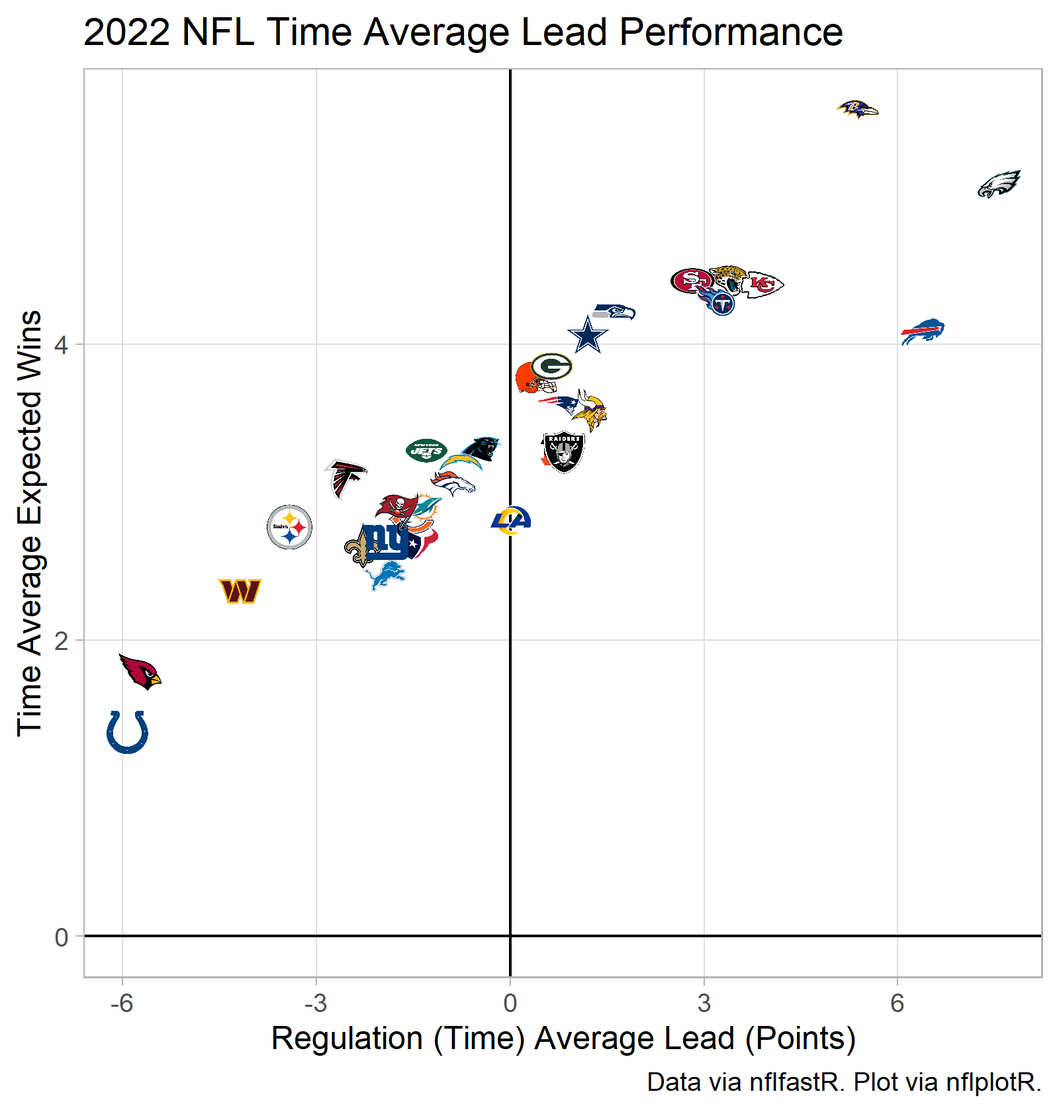
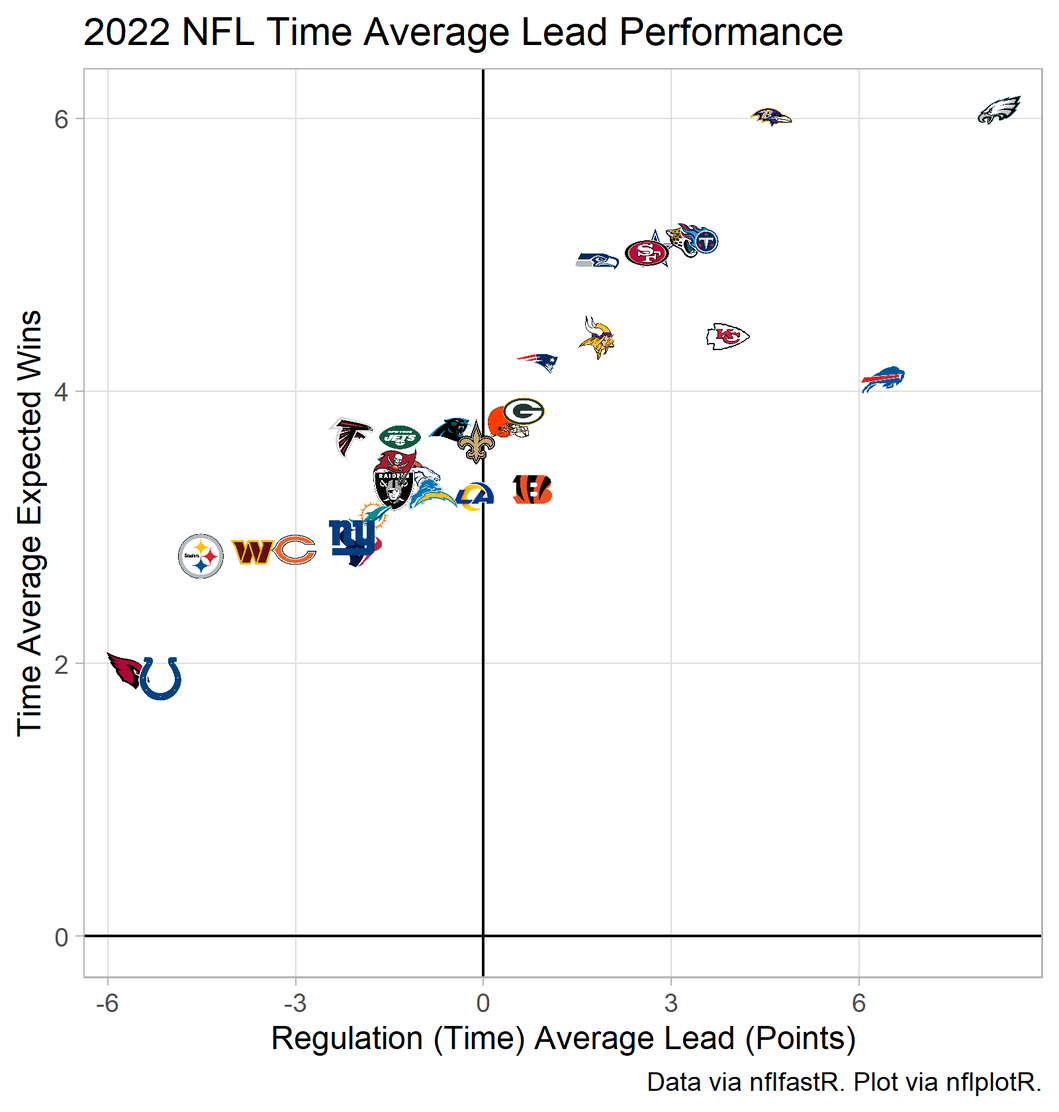
Week 8

diff --git a/docs/2022-nfl-team-metrics.html b/docs/2022-nfl-team-metrics.html
@@ -94,8 +94,8 @@ code span.wa { color: #5e5e5e; font-style: italic; } /* Warning */
 
 
   <!--  https://schema.org/Article -->
-  <meta property="article:published" itemprop="datePublished" content="2022-10-25"/>
-  <meta property="article:created" itemprop="dateCreated" content="2022-10-25"/>
+  <meta property="article:published" itemprop="datePublished" content="2022-10-30"/>
+  <meta property="article:created" itemprop="dateCreated" content="2022-10-30"/>
   <meta name="article:author" content="Casey Caprini"/>
 
   <!--  https://developers.facebook.com/docs/sharing/webmasters#markup -->
@@ -114,7 +114,7 @@ code span.wa { color: #5e5e5e; font-style: italic; } /* Warning */
   <!--radix_placeholder_rmarkdown_metadata-->
 
   <script type="text/json" id="radix-rmarkdown-metadata">
-  {"type":"list","attributes":{"names":{"type":"character","attributes":{},"value":["title","description","author","date","output"]}},"value":[{"type":"character","attributes":{},"value":["2022 NFL Team Metrics"]},{"type":"character","attributes":{},"value":["Team time average metrics for the 2021 regular season.\n"]},{"type":"list","attributes":{},"value":[{"type":"list","attributes":{"names":{"type":"character","attributes":{},"value":["name"]}},"value":[{"type":"character","attributes":{},"value":["Casey Caprini"]}]}]},{"type":"character","attributes":{},"value":["10-25-2022"]},{"type":"list","attributes":{"names":{"type":"character","attributes":{},"value":["distill::distill_article"]}},"value":[{"type":"list","attributes":{"names":{"type":"character","attributes":{},"value":["self_contained","code_folding"]}},"value":[{"type":"logical","attributes":{},"value":[false]},{"type":"logical","attributes":{},"value":[true]}]}]}]}
+  {"type":"list","attributes":{"names":{"type":"character","attributes":{},"value":["title","description","author","date","output"]}},"value":[{"type":"character","attributes":{},"value":["2022 NFL Team Metrics"]},{"type":"character","attributes":{},"value":["Team time average metrics for the 2021 regular season.\n"]},{"type":"list","attributes":{},"value":[{"type":"list","attributes":{"names":{"type":"character","attributes":{},"value":["name"]}},"value":[{"type":"character","attributes":{},"value":["Casey Caprini"]}]}]},{"type":"character","attributes":{},"value":["10-30-2022"]},{"type":"list","attributes":{"names":{"type":"character","attributes":{},"value":["distill::distill_article"]}},"value":[{"type":"list","attributes":{"names":{"type":"character","attributes":{},"value":["self_contained","code_folding"]}},"value":[{"type":"logical","attributes":{},"value":[false]},{"type":"logical","attributes":{},"value":[true]}]}]}]}
   </script>
   <!--/radix_placeholder_rmarkdown_metadata-->
   <!--radix_placeholder_navigation_in_header-->
@@ -2408,7 +2408,7 @@ code span.wa { color: #5e5e5e; font-style: italic; } /* Warning */
 <!--radix_placeholder_front_matter-->
 
 <script id="distill-front-matter" type="text/json">
-{"title":"2022 NFL Team Metrics","description":"Team time average metrics for the 2021 regular season.","authors":[{"author":"Casey Caprini","authorURL":"#","affiliation":"&nbsp;","affiliationURL":"#","orcidID":""}],"publishedDate":"2022-10-25T00:00:00.000-04:00","citationText":"Caprini, 2022"}
+{"title":"2022 NFL Team Metrics","description":"Team time average metrics for the 2021 regular season.","authors":[{"author":"Casey Caprini","authorURL":"#","affiliation":"&nbsp;","affiliationURL":"#","orcidID":""}],"publishedDate":"2022-10-30T00:00:00.000-04:00","citationText":"Caprini, 2022"}
 </script>
 
 <!--/radix_placeholder_front_matter-->
@@ -2441,11 +2441,25 @@ code span.wa { color: #5e5e5e; font-style: italic; } /* Warning */
 <div class="d-byline">
   Casey Caprini  
   
-<br/>10-25-2022
+<br/>10-30-2022
 </div>
 
 <div class="d-article">
 <h3 id="packages-used">Packages Used</h3>
+<div class="layout-chunk" data-layout="l-body">
+<details>
+<summary>
+Show code
+</summary>
+<div class="sourceCode">
+<pre class="sourceCode r"><code class="sourceCode r"><span><span class='kw'><a href='https://rdrr.io/r/base/library.html'>library</a></span><span class='op'>(</span><span class='va'><a href='https://tidyverse.tidyverse.org'>tidyverse</a></span><span class='op'>)</span></span>
+<span><span class='kw'><a href='https://rdrr.io/r/base/library.html'>library</a></span><span class='op'>(</span><span class='va'><a href='https://www.nflfastr.com/'>nflfastR</a></span><span class='op'>)</span></span>
+<span><span class='kw'><a href='https://rdrr.io/r/base/library.html'>library</a></span><span class='op'>(</span><span class='va'><a href='https://glin.github.io/reactable/'>reactable</a></span><span class='op'>)</span></span>
+<span><span class='kw'><a href='https://rdrr.io/r/base/library.html'>library</a></span><span class='op'>(</span><span class='va'><a href='https://kcuilla.github.io/reactablefmtr/'>reactablefmtr</a></span><span class='op'>)</span></span>
+<span><span class='kw'><a href='https://rdrr.io/r/base/library.html'>library</a></span><span class='op'>(</span><span class='va'><a href='https://nflplotr.nflverse.com'>nflplotR</a></span><span class='op'>)</span></span></code></pre>
+</div>
+</details>
+</div>
 <h3 id="code-to-generate-data">Code to Generate Data</h3>
 <div class="layout-chunk" data-layout="l-body">
 <details>
@@ -2753,8 +2767,8 @@ Show code
 <span>  <span class='op'>)</span></span></code></pre>
 </div>
 </details>
-<div id="htmlwidget-7292abbe2bfd8d4f60d1" class="reactable html-widget" style="width:auto;height:675px;"></div>
-<script type="application/json" data-for="htmlwidget-7292abbe2bfd8d4f60d1">{"x":{"tag":{"name":"Reactable","attribs":{"data":{"team_logo_espn":["https://a.espncdn.com/i/teamlogos/nfl/500/ari.png","https://a.espncdn.com/i/teamlogos/nfl/500/atl.png","https://a.espncdn.com/i/teamlogos/nfl/500/bal.png","https://a.espncdn.com/i/teamlogos/nfl/500/buf.png","https://a.espncdn.com/i/teamlogos/nfl/500-dark/car.png","https://a.espncdn.com/i/teamlogos/nfl/500/chi.png","https://a.espncdn.com/i/teamlogos/nfl/500/cin.png","https://a.espncdn.com/i/teamlogos/nfl/500/cle.png","https://a.espncdn.com/i/teamlogos/nfl/500/dal.png","https://a.espncdn.com/i/teamlogos/nfl/500/den.png","https://a.espncdn.com/i/teamlogos/nfl/500/det.png","https://a.espncdn.com/i/teamlogos/nfl/500/gb.png","https://a.espncdn.com/i/teamlogos/nfl/500/hou.png","https://a.espncdn.com/i/teamlogos/nfl/500/ind.png","https://a.espncdn.com/i/teamlogos/nfl/500/jax.png","https://a.espncdn.com/i/teamlogos/nfl/500/kc.png","https://a.espncdn.com/i/teamlogos/nfl/500/lar.png","https://a.espncdn.com/i/teamlogos/nfl/500/lac.png","https://a.espncdn.com/i/teamlogos/nfl/500/lv.png","https://a.espncdn.com/i/teamlogos/nfl/500/mia.png","https://a.espncdn.com/i/teamlogos/nfl/500/min.png","https://a.espncdn.com/i/teamlogos/nfl/500/ne.png","https://a.espncdn.com/i/teamlogos/nfl/500/no.png","https://a.espncdn.com/i/teamlogos/nfl/500/nyg.png","https://a.espncdn.com/i/teamlogos/nfl/500/nyj.png","https://a.espncdn.com/i/teamlogos/nfl/500/phi.png","https://a.espncdn.com/i/teamlogos/nfl/500/pit.png","https://a.espncdn.com/i/teamlogos/nfl/500/sea.png","https://a.espncdn.com/i/teamlogos/nfl/500/sf.png","https://a.espncdn.com/i/teamlogos/nfl/500/tb.png","https://a.espncdn.com/i/teamlogos/nfl/500/ten.png","https://a.espncdn.com/i/teamlogos/nfl/500/wsh.png"],"team":["ARI","ATL","BAL","BUF","CAR","CHI","CIN","CLE","DAL","DEN","DET","GB","HOU","IND","JAX","KC","LA","LAC","LV","MIA","MIN","NE","NO","NYG","NYJ","PHI","PIT","SEA","SF","TB","TEN","WAS"],"time_avg_lead":[-5.7525,-2.55674603174603,5.36206349206349,6.37462962962963,-0.477896825396825,-1.54400793650794,0.761468253968254,0.398690476190476,1.19956349206349,-0.894642857142857,-1.95689814814815,0.636507936507936,-1.4600462962963,-5.93492063492064,3.38,3.90277777777778,-0.00310185185185189,-0.766111111111111,0.824722222222222,-1.39206349206349,1.20680555555556,0.730912698412699,-2.28238095238095,-1.93940476190476,-1.30464285714286,7.56726851851852,-3.42007936507936,1.59884920634921,2.81615079365079,-1.76757936507936,3.13152777777778,-4.19821428571429],"time_avg_wins":[1.7950921275503,3.08848103602592,5.58287064989552,4.08287365638769,3.29337373944546,2.82466192782038,3.28333581294035,3.77801052951822,4.07188304384852,3.05904839591423,2.44661184140455,3.85513496304744,2.67816200665367,1.37936614160907,4.43131084880665,4.40297837259093,2.81292545219117,3.20277509144818,3.27637637705083,2.90232427957428,3.55654145587813,3.58491290649305,2.64060404149511,2.66506867241584,3.28694069409643,5.08525532886004,2.76968315961329,4.22147762385256,4.43094304185489,2.87969964069664,4.29516309200924,2.33611404901141],"off_yards_per_snap":[4.55533980582524,5.25837320574163,5.51376146788991,6.5121359223301,4.87855297157623,5.06888361045131,5.26069246435845,5.39350912778905,4.84353741496599,4.81724845995893,5.72660098522168,5.20879120879121,4.97894736842105,4.60510805500982,5.46511627906977,5.95095948827292,4.53196930946292,5.08840864440079,5.67254408060453,5.71681415929203,5.2531328320802,5.45475638051044,5.66252587991718,4.91386554621849,4.70020964360587,5.27088036117382,4.40522875816993,5.8310502283105,5.20815450643777,4.73596673596674,4.47632311977716,4.60238568588469],"off_adj_yards_per_snap":[4.99500074628168,5.19383692049136,5.25974316887171,5.47926342411457,5.10580732737309,5.13923101651873,5.19128696895195,5.22411420500708,5.0904878096037,5.06977493335793,5.30200639480908,5.18292862838257,5.13322157306814,5.00830957591815,5.24120982889806,5.38661769474297,5.03876342553437,5.14441939101071,5.28213409189707,5.31315587783639,5.18348865454988,5.22839551871784,5.29761070308188,5.10972531732087,5.04702446037751,5.1886884187644,4.98250144739684,5.32471193136217,5.17899620485076,5.05354666830902,5.02508938902615,5.01805267584615],"def_yards_per_snap":[5.53070175438596,5.8718487394958,5.43008474576271,4.22739018087855,4.79,5.05309734513274,4.9490022172949,5.39503386004515,4.25311203319502,4.13223140495868,5.95180722891566,4.97405660377358,5.71954022988506,4.94713656387665,5.12603305785124,5.30532786885246,5.03399433427762,5.66666666666667,5.29601990049751,5.60044150110375,5.49376558603491,5.27015250544662,5.40444444444444,5.33039647577093,4.8326359832636,4.56488549618321,5.30708661417323,5.73535353535354,4.62076749435666,4.57204301075269,5.54613466334165,5.41538461538462],"def_adj_yards_per_snap":[5.2306675101843,5.32254681558207,5.21576389003031,4.99292375735859,5.0905309505508,5.14880876014678,5.12208895835956,5.22359944531455,4.97283369952612,4.9384420769609,5.32563875157722,5.14212132621947,5.29081190171876,5.12272912178157,5.17783274591843,5.20084681796608,5.14613927953841,5.25991524329326,5.20235682067084,5.2531845827336,5.21800292536942,5.18458571571616,5.22453756265174,5.20803143260741,5.09354542692507,5.06093878561386,5.19290072318359,5.29962792411871,5.05416896952981,5.03460213602499,5.24523934570773,5.22318098939266],"yards_per_snap_diff":[-0.975361948560722,-0.613475533754171,0.0836767221271959,2.28474574145154,0.0885529715762274,0.015786265318563,0.311690247063551,-0.00152473225610006,0.590425381770966,0.685017055000255,-0.225206243693988,0.234734605017624,-0.740592861464004,-0.342028508866829,0.339083221218528,0.645631619420461,-0.502025024814705,-0.578258022265882,0.376524180107022,0.116372658188282,-0.240632753954713,0.184603875063818,0.258081435472739,-0.416530929552438,-0.132426339657728,0.705994864990609,-0.901857856003294,0.0956966929569667,0.587387012081109,0.163923725214048,-1.06981154356449,-0.812998929499924],"adj_yards_per_snap_diff":[-0.235666763902624,-0.128709895090716,0.0439792788413982,0.48633966675598,0.0152763768222952,-0.00957774362804553,0.0691980105923973,0.000514759692525679,0.117654110077578,0.131332856397036,-0.0236323567681396,0.040807302163099,-0.157590328650613,-0.114419545863424,0.063377082979633,0.18577087677689,-0.107375854004037,-0.115495852282548,0.0797772712262326,0.0599712951027866,-0.0345142708195398,0.0438098030016718,0.0730731404301448,-0.0983061152865403,-0.0465209665475612,0.127749633150544,-0.210399275786744,0.0250840072434677,0.124827235320951,0.0189445322840278,-0.220149956681578,-0.205128313546508]},"columns":[{"accessor":"team_logo_espn","name":" ","type":"character","format":{"cell":{"digits":1},"aggregated":{"digits":1}},"align":"center","sortable":false,"cell":[{"name":"Fragment","attribs":[],"children":[{"name":"div","attribs":{"style":{"display":"flex","justifyContent":"center"}},"children":[{"name":"img","attribs":{"src":"https://a.espncdn.com/i/teamlogos/nfl/500/ari.png","align":"center","height":24,"width":24},"children":[]}]}]},{"name":"Fragment","attribs":[],"children":[{"name":"div","attribs":{"style":{"display":"flex","justifyContent":"center"}},"children":[{"name":"img","attribs":{"src":"https://a.espncdn.com/i/teamlogos/nfl/500/atl.png","align":"center","height":24,"width":24},"children":[]}]}]},{"name":"Fragment","attribs":[],"children":[{"name":"div","attribs":{"style":{"display":"flex","justifyContent":"center"}},"children":[{"name":"img","attribs":{"src":"https://a.espncdn.com/i/teamlogos/nfl/500/bal.png","align":"center","height":24,"width":24},"children":[]}]}]},{"name":"Fragment","attribs":[],"children":[{"name":"div","attribs":{"style":{"display":"flex","justifyContent":"center"}},"children":[{"name":"img","attribs":{"src":"https://a.espncdn.com/i/teamlogos/nfl/500/buf.png","align":"center","height":24,"width":24},"children":[]}]}]},{"name":"Fragment","attribs":[],"children":[{"name":"div","attribs":{"style":{"display":"flex","justifyContent":"center"}},"children":[{"name":"img","attribs":{"src":"https://a.espncdn.com/i/teamlogos/nfl/500-dark/car.png","align":"center","height":24,"width":24},"children":[]}]}]},{"name":"Fragment","attribs":[],"children":[{"name":"div","attribs":{"style":{"display":"flex","justifyContent":"center"}},"children":[{"name":"img","attribs":{"src":"https://a.espncdn.com/i/teamlogos/nfl/500/chi.png","align":"center","height":24,"width":24},"children":[]}]}]},{"name":"Fragment","attribs":[],"children":[{"name":"div","attribs":{"style":{"display":"flex","justifyContent":"center"}},"children":[{"name":"img","attribs":{"src":"https://a.espncdn.com/i/teamlogos/nfl/500/cin.png","align":"center","height":24,"width":24},"children":[]}]}]},{"name":"Fragment","attribs":[],"children":[{"name":"div","attribs":{"style":{"display":"flex","justifyContent":"center"}},"children":[{"name":"img","attribs":{"src":"https://a.espncdn.com/i/teamlogos/nfl/500/cle.png","align":"center","height":24,"width":24},"children":[]}]}]},{"name":"Fragment","attribs":[],"children":[{"name":"div","attribs":{"style":{"display":"flex","justifyContent":"center"}},"children":[{"name":"img","attribs":{"src":"https://a.espncdn.com/i/teamlogos/nfl/500/dal.png","align":"center","height":24,"width":24},"children":[]}]}]},{"name":"Fragment","attribs":[],"children":[{"name":"div","attribs":{"style":{"display":"flex","justifyContent":"center"}},"children":[{"name":"img","attribs":{"src":"https://a.espncdn.com/i/teamlogos/nfl/500/den.png","align":"center","height":24,"width":24},"children":[]}]}]},{"name":"Fragment","attribs":[],"children":[{"name":"div","attribs":{"style":{"display":"flex","justifyContent":"center"}},"children":[{"name":"img","attribs":{"src":"https://a.espncdn.com/i/teamlogos/nfl/500/det.png","align":"center","height":24,"width":24},"children":[]}]}]},{"name":"Fragment","attribs":[],"children":[{"name":"div","attribs":{"style":{"display":"flex","justifyContent":"center"}},"children":[{"name":"img","attribs":{"src":"https://a.espncdn.com/i/teamlogos/nfl/500/gb.png","align":"center","height":24,"width":24},"children":[]}]}]},{"name":"Fragment","attribs":[],"children":[{"name":"div","attribs":{"style":{"display":"flex","justifyContent":"center"}},"children":[{"name":"img","attribs":{"src":"https://a.espncdn.com/i/teamlogos/nfl/500/hou.png","align":"center","height":24,"width":24},"children":[]}]}]},{"name":"Fragment","attribs":[],"children":[{"name":"div","attribs":{"style":{"display":"flex","justifyContent":"center"}},"children":[{"name":"img","attribs":{"src":"https://a.espncdn.com/i/teamlogos/nfl/500/ind.png","align":"center","height":24,"width":24},"children":[]}]}]},{"name":"Fragment","attribs":[],"children":[{"name":"div","attribs":{"style":{"display":"flex","justifyContent":"center"}},"children":[{"name":"img","attribs":{"src":"https://a.espncdn.com/i/teamlogos/nfl/500/jax.png","align":"center","height":24,"width":24},"children":[]}]}]},{"name":"Fragment","attribs":[],"children":[{"name":"div","attribs":{"style":{"display":"flex","justifyContent":"center"}},"children":[{"name":"img","attribs":{"src":"https://a.espncdn.com/i/teamlogos/nfl/500/kc.png","align":"center","height":24,"width":24},"children":[]}]}]},{"name":"Fragment","attribs":[],"children":[{"name":"div","attribs":{"style":{"display":"flex","justifyContent":"center"}},"children":[{"name":"img","attribs":{"src":"https://a.espncdn.com/i/teamlogos/nfl/500/lar.png","align":"center","height":24,"width":24},"children":[]}]}]},{"name":"Fragment","attribs":[],"children":[{"name":"div","attribs":{"style":{"display":"flex","justifyContent":"center"}},"children":[{"name":"img","attribs":{"src":"https://a.espncdn.com/i/teamlogos/nfl/500/lac.png","align":"center","height":24,"width":24},"children":[]}]}]},{"name":"Fragment","attribs":[],"children":[{"name":"div","attribs":{"style":{"display":"flex","justifyContent":"center"}},"children":[{"name":"img","attribs":{"src":"https://a.espncdn.com/i/teamlogos/nfl/500/lv.png","align":"center","height":24,"width":24},"children":[]}]}]},{"name":"Fragment","attribs":[],"children":[{"name":"div","attribs":{"style":{"display":"flex","justifyContent":"center"}},"children":[{"name":"img","attribs":{"src":"https://a.espncdn.com/i/teamlogos/nfl/500/mia.png","align":"center","height":24,"width":24},"children":[]}]}]},{"name":"Fragment","attribs":[],"children":[{"name":"div","attribs":{"style":{"display":"flex","justifyContent":"center"}},"children":[{"name":"img","attribs":{"src":"https://a.espncdn.com/i/teamlogos/nfl/500/min.png","align":"center","height":24,"width":24},"children":[]}]}]},{"name":"Fragment","attribs":[],"children":[{"name":"div","attribs":{"style":{"display":"flex","justifyContent":"center"}},"children":[{"name":"img","attribs":{"src":"https://a.espncdn.com/i/teamlogos/nfl/500/ne.png","align":"center","height":24,"width":24},"children":[]}]}]},{"name":"Fragment","attribs":[],"children":[{"name":"div","attribs":{"style":{"display":"flex","justifyContent":"center"}},"children":[{"name":"img","attribs":{"src":"https://a.espncdn.com/i/teamlogos/nfl/500/no.png","align":"center","height":24,"width":24},"children":[]}]}]},{"name":"Fragment","attribs":[],"children":[{"name":"div","attribs":{"style":{"display":"flex","justifyContent":"center"}},"children":[{"name":"img","attribs":{"src":"https://a.espncdn.com/i/teamlogos/nfl/500/nyg.png","align":"center","height":24,"width":24},"children":[]}]}]},{"name":"Fragment","attribs":[],"children":[{"name":"div","attribs":{"style":{"display":"flex","justifyContent":"center"}},"children":[{"name":"img","attribs":{"src":"https://a.espncdn.com/i/teamlogos/nfl/500/nyj.png","align":"center","height":24,"width":24},"children":[]}]}]},{"name":"Fragment","attribs":[],"children":[{"name":"div","attribs":{"style":{"display":"flex","justifyContent":"center"}},"children":[{"name":"img","attribs":{"src":"https://a.espncdn.com/i/teamlogos/nfl/500/phi.png","align":"center","height":24,"width":24},"children":[]}]}]},{"name":"Fragment","attribs":[],"children":[{"name":"div","attribs":{"style":{"display":"flex","justifyContent":"center"}},"children":[{"name":"img","attribs":{"src":"https://a.espncdn.com/i/teamlogos/nfl/500/pit.png","align":"center","height":24,"width":24},"children":[]}]}]},{"name":"Fragment","attribs":[],"children":[{"name":"div","attribs":{"style":{"display":"flex","justifyContent":"center"}},"children":[{"name":"img","attribs":{"src":"https://a.espncdn.com/i/teamlogos/nfl/500/sea.png","align":"center","height":24,"width":24},"children":[]}]}]},{"name":"Fragment","attribs":[],"children":[{"name":"div","attribs":{"style":{"display":"flex","justifyContent":"center"}},"children":[{"name":"img","attribs":{"src":"https://a.espncdn.com/i/teamlogos/nfl/500/sf.png","align":"center","height":24,"width":24},"children":[]}]}]},{"name":"Fragment","attribs":[],"children":[{"name":"div","attribs":{"style":{"display":"flex","justifyContent":"center"}},"children":[{"name":"img","attribs":{"src":"https://a.espncdn.com/i/teamlogos/nfl/500/tb.png","align":"center","height":24,"width":24},"children":[]}]}]},{"name":"Fragment","attribs":[],"children":[{"name":"div","attribs":{"style":{"display":"flex","justifyContent":"center"}},"children":[{"name":"img","attribs":{"src":"https://a.espncdn.com/i/teamlogos/nfl/500/ten.png","align":"center","height":24,"width":24},"children":[]}]}]},{"name":"Fragment","attribs":[],"children":[{"name":"div","attribs":{"style":{"display":"flex","justifyContent":"center"}},"children":[{"name":"img","attribs":{"src":"https://a.espncdn.com/i/teamlogos/nfl/500/wsh.png","align":"center","height":24,"width":24},"children":[]}]}]}],"width":40,"style":{"position":"sticky","left":0,"background":"#fff","zIndex":1}},{"accessor":"team","name":"Team","type":"character","format":{"cell":{"digits":1},"aggregated":{"digits":1}},"align":"center","width":60,"style":{"position":"sticky","left":40,"background":"#fff","zIndex":1}},{"accessor":"time_avg_lead","name":"Time Average Lead","type":"numeric","format":{"cell":{"digits":1},"aggregated":{"digits":1}},"align":"center"},{"accessor":"time_avg_wins","name":"Expected Wins","type":"numeric","format":{"cell":{"digits":1},"aggregated":{"digits":1}},"align":"center"},{"accessor":"off_yards_per_snap","name":"Yards/Snap","type":"numeric","format":{"cell":{"digits":1},"aggregated":{"digits":1}},"align":"center"},{"accessor":"off_adj_yards_per_snap","name":"Adj Yards/Snap","type":"numeric","format":{"cell":{"digits":1},"aggregated":{"digits":1}},"align":"center"},{"accessor":"def_yards_per_snap","name":"Yards/Snap","type":"numeric","format":{"cell":{"digits":1},"aggregated":{"digits":1}},"align":"center"},{"accessor":"def_adj_yards_per_snap","name":"Adj Yards/Snap","type":"numeric","format":{"cell":{"digits":1},"aggregated":{"digits":1}},"align":"center"},{"accessor":"yards_per_snap_diff","name":"Yards/Snap Diff","type":"numeric","format":{"cell":{"digits":2},"aggregated":{"digits":2}},"align":"center"},{"accessor":"adj_yards_per_snap_diff","name":"Adj Yards/Snap Diff","type":"numeric","format":{"cell":{"digits":2},"aggregated":{"digits":2}},"align":"center"}],"columnGroups":[{"name":"Time Average Stats","columns":["time_avg_lead","time_avg_wins"]},{"name":"Offense","columns":["off_yards_per_snap","off_adj_yards_per_snap"]},{"name":"Defense","columns":["def_yards_per_snap","def_adj_yards_per_snap"]},{"name":"Differential","columns":["yards_per_snap_diff","adj_yards_per_snap_diff"]}],"defaultSortDesc":true,"defaultSorted":[{"id":"time_avg_lead","desc":true}],"pagination":false,"defaultPageSize":10,"paginationType":"numbers","showPageInfo":true,"minRows":1,"highlight":true,"bordered":true,"height":"675px","theme":{"color":"#878e94","backgroundColor":"#ffffff","borderWidth":"0px","stripedColor":"#f9f9fb","highlightColor":"#f1f3f4","cellPadding":4,"tableStyle":{"fontSize":16},"headerStyle":{"borderWidth":"1px","padding":"7px","borderTop":"1px solid #595d63","backgroundColor":"#595d63","textTransform":"uppercase","borderColor":"#595d63","color":"#ffffff","transitionDuration":"0.1s","&:hover[aria-sort]":{"backgroundColor":"#4d5056","color":"#ffffff"},"&[aria-sort='ascending']":{"backgroundColor":"#393c40","color":"#ffffff","boxShadow":"inset 0 3px 0 0 #ffffff"},"&[aria-sort='descending']":{"backgroundColor":"#393c40","color":"#ffffff","boxShadow":"inset 0 -3px 0 0 #ffffff"},"fontSize":12,"fontWeight":"bold"},"groupHeaderStyle":{"&:not(:empty)":{"backgroundColor":"#e4e8ed","textTransform":"uppercase","fontWeight":"bold","color":"#878e94","fontSize":12,"boxShadow":"inset 3px 0 0 0 #ffffff"}},"rowSelectedStyle":{"backgroundColor":"#e4e8ed"},"inputStyle":{"backgroundColor":"#ffffff","color":"#878e94"},"searchInputStyle":{"fontSize":"14px","textTransform":"uppercase","backgroundColor":"#ffffff","color":"#878e94","&:focus":{"color":"#878e94"}},"selectStyle":{"backgroundColor":"#073c57","color":"#ffffff","borderColor":"#ffffff","outlineColor":"#ffffff"},"paginationStyle":{"textTransform":"uppercase","fontSize":"15px"},"pageButtonStyle":{"textTransform":"uppercase","fontSize":"15px","backgroundColor":"#ffffff","color":"#164861","&:hover":{"backgroundColor":"#052c3f","color":"#ffffff"}},"pageButtonHoverStyle":{"backgroundColor":"#052c3f","color":"#ffffff"},"pageButtonActiveStyle":{"backgroundColor":"#073c57","color":"#ffffff"},"pageButtonCurrentStyle":{"backgroundColor":"#073c57","color":"#ffffff"}},"dataKey":"3462a34e6ffe3e2b94ed6c7337adb60b"},"children":[]},"class":"reactR_markup"},"evals":[],"jsHooks":[]}</script>
+<div id="htmlwidget-e2a06c4e04283a97fb6d" class="reactable html-widget" style="width:auto;height:675px;"></div>
+<script type="application/json" data-for="htmlwidget-e2a06c4e04283a97fb6d">{"x":{"tag":{"name":"Reactable","attribs":{"data":{"team_logo_espn":["https://a.espncdn.com/i/teamlogos/nfl/500/ari.png","https://a.espncdn.com/i/teamlogos/nfl/500/atl.png","https://a.espncdn.com/i/teamlogos/nfl/500/bal.png","https://a.espncdn.com/i/teamlogos/nfl/500/buf.png","https://a.espncdn.com/i/teamlogos/nfl/500-dark/car.png","https://a.espncdn.com/i/teamlogos/nfl/500/chi.png","https://a.espncdn.com/i/teamlogos/nfl/500/cin.png","https://a.espncdn.com/i/teamlogos/nfl/500/cle.png","https://a.espncdn.com/i/teamlogos/nfl/500/dal.png","https://a.espncdn.com/i/teamlogos/nfl/500/den.png","https://a.espncdn.com/i/teamlogos/nfl/500/det.png","https://a.espncdn.com/i/teamlogos/nfl/500/gb.png","https://a.espncdn.com/i/teamlogos/nfl/500/hou.png","https://a.espncdn.com/i/teamlogos/nfl/500/ind.png","https://a.espncdn.com/i/teamlogos/nfl/500/jax.png","https://a.espncdn.com/i/teamlogos/nfl/500/kc.png","https://a.espncdn.com/i/teamlogos/nfl/500/lar.png","https://a.espncdn.com/i/teamlogos/nfl/500/lac.png","https://a.espncdn.com/i/teamlogos/nfl/500/lv.png","https://a.espncdn.com/i/teamlogos/nfl/500/mia.png","https://a.espncdn.com/i/teamlogos/nfl/500/min.png","https://a.espncdn.com/i/teamlogos/nfl/500/ne.png","https://a.espncdn.com/i/teamlogos/nfl/500/no.png","https://a.espncdn.com/i/teamlogos/nfl/500/nyg.png","https://a.espncdn.com/i/teamlogos/nfl/500/nyj.png","https://a.espncdn.com/i/teamlogos/nfl/500/phi.png","https://a.espncdn.com/i/teamlogos/nfl/500/pit.png","https://a.espncdn.com/i/teamlogos/nfl/500/sea.png","https://a.espncdn.com/i/teamlogos/nfl/500/sf.png","https://a.espncdn.com/i/teamlogos/nfl/500/tb.png","https://a.espncdn.com/i/teamlogos/nfl/500/ten.png","https://a.espncdn.com/i/teamlogos/nfl/500/wsh.png"],"team":["ARI","ATL","BAL","BUF","CAR","CHI","CIN","CLE","DAL","DEN","DET","GB","HOU","IND","JAX","KC","LA","LAC","LV","MIA","MIN","NE","NO","NYG","NYJ","PHI","PIT","SEA","SF","TB","TEN","WAS"],"time_avg_lead":[-5.6934375,-2.11607638888889,4.56972222222222,6.37462962962963,-0.539236111111111,-3.04305555555556,0.761468253968254,0.398690476190476,2.74166666666667,-1.0534375,-1.00178571428571,0.636507936507936,-1.96853174603175,-5.16916666666667,3.228125,3.90277777777778,-0.162142857142857,-0.766111111111111,-1.43424603174603,-1.80916666666667,1.78869047619048,0.836458333333333,-0.123576388888889,-2.11173611111111,-1.33847222222222,8.23662698412698,-4.52416666666667,1.81375,2.60368055555556,-1.42454861111111,3.40123015873016,-3.69732638888889],"time_avg_wins":[1.95799308510561,3.66298941945,6.00775193812035,4.08287365638769,3.71886535602137,2.83949019667627,3.28333581294035,3.77801052951822,5.05705477499264,3.39728778031768,3.25905371331773,3.85513496304744,2.85237938080899,1.89417292210843,5.09307146440321,4.40297837259093,3.22725864990621,3.20277509144818,3.28588222082937,3.0898824076611,4.39364049832283,4.20462729087686,3.63109819771657,2.92842482468215,3.66722630971262,6.06333895413685,2.79159953433648,4.95812147158625,5.01660984413985,3.4548183524718,5.12094571785392,2.82130726851205],"off_yards_per_snap":[4.64864864864865,5.31827515400411,5.62671905697446,6.5121359223301,5.01498929336188,5.012,5.26069246435845,5.39350912778905,5.16064257028112,4.85792349726776,5.74626865671642,5.20879120879121,4.68663594470046,4.74074074074074,5.29981718464351,5.95095948827292,4.46428571428571,5.08840864440079,5.32747252747253,5.90328820116054,5.26483050847458,5.22332015810277,5.65755919854281,4.69485294117647,4.87174721189591,5.45490981963928,4.28066914498141,5.67265469061876,5.375,4.87773722627737,4.62470308788599,4.74645390070922],"off_adj_yards_per_snap":[5.02367171341335,5.22252808010516,5.30553960205165,5.46131573115969,5.13425535493064,5.13786864287051,5.19525622921065,5.2216616260273,5.17277286747438,5.08772641157259,5.31837688301419,5.18551991848713,5.06655948753138,5.05311148830191,5.21439882242846,5.37801261123043,5.03005989842284,5.15503934179003,5.21276938743646,5.36363886172348,5.1895838688967,5.17573404114431,5.30425230631184,5.04963151167417,5.09305573296105,5.23688873852192,4.9515394000189,5.29464831383515,5.22757230834553,5.09225316100146,5.04979597593804,5.06360846620364],"def_yards_per_snap":[5.50283553875236,5.84352517985612,5.48794063079777,4.22739018087855,4.89806678383128,5.33988212180747,4.9490022172949,5.39503386004515,4.31729055258467,4.1505376344086,6.12083333333333,4.97405660377358,5.69014084507042,5.06407766990291,5.13186813186813,5.30532786885246,5.27027027027027,5.66666666666667,5.34188034188034,5.63372093023256,5.4581589958159,5.38076923076923,5.1259842519685,5.23404255319149,4.70524412296564,4.39618644067797,5.46631205673759,5.42451154529307,4.55,4.80669144981413,5.2,5.47368421052632],"def_adj_yards_per_snap":[5.25430179884942,5.37289620039552,5.25991974462015,4.96331008595425,5.10196348043659,5.23174412590937,5.11234239808555,5.23948911044349,4.93204435351744,4.8764136372809,5.41984176305652,5.14338169616757,5.33202936174637,5.15506245647064,5.18719527923382,5.21105689685044,5.1933737363829,5.29197437552723,5.22668439348186,5.293320434137,5.23848662621157,5.22929619126461,5.16537026758586,5.19050516614197,5.03600088088256,4.98486040907734,5.25144296179575,5.25213489291502,5.01031779743131,5.05816601614591,5.19158926667674,5.26213097935862],"yards_per_snap_diff":[-0.854186890103715,-0.525250025852008,0.138778426176685,2.28474574145154,0.116922509530601,-0.327882121807466,0.311690247063551,-0.00152473225610006,0.843352017696454,0.707385862859158,-0.374564676616916,0.234734605017624,-1.00350490036996,-0.323336929162172,0.167949052775378,0.645631619420461,-0.805984555984556,-0.578258022265882,-0.0144078144078144,0.269567270927983,-0.193328487341323,-0.157449072666465,0.531574946574302,-0.539189612015019,0.166503088930269,1.05872337896131,-1.18564291175618,0.24814314532569,0.825,0.0710457764632464,-0.575296912114014,-0.727230309817096],"adj_yards_per_snap_diff":[-0.23063008543607,-0.150368120290356,0.0456198574315057,0.498005645205438,0.0322918744940441,-0.0938754830388531,0.0829138311251016,-0.0178274844161939,0.240728513956931,0.211312774291695,-0.101464880042339,0.0421382223195597,-0.265469874214986,-0.101950968168729,0.0272035431946369,0.166955714379986,-0.163313837960059,-0.1369350337372,-0.0139150060453987,0.0703184275864857,-0.0489027573148624,-0.053562150120297,0.13888203872598,-0.140873654467809,0.0570548520784886,0.252028329444578,-0.299903561776854,0.0425134209201357,0.21725451091422,0.0340871448555431,-0.141793290738696,-0.198522513154982]},"columns":[{"accessor":"team_logo_espn","name":" ","type":"character","format":{"cell":{"digits":1},"aggregated":{"digits":1}},"align":"center","sortable":false,"cell":[{"name":"Fragment","attribs":[],"children":[{"name":"div","attribs":{"style":{"display":"flex","justifyContent":"center"}},"children":[{"name":"img","attribs":{"src":"https://a.espncdn.com/i/teamlogos/nfl/500/ari.png","align":"center","height":24,"width":24},"children":[]}]}]},{"name":"Fragment","attribs":[],"children":[{"name":"div","attribs":{"style":{"display":"flex","justifyContent":"center"}},"children":[{"name":"img","attribs":{"src":"https://a.espncdn.com/i/teamlogos/nfl/500/atl.png","align":"center","height":24,"width":24},"children":[]}]}]},{"name":"Fragment","attribs":[],"children":[{"name":"div","attribs":{"style":{"display":"flex","justifyContent":"center"}},"children":[{"name":"img","attribs":{"src":"https://a.espncdn.com/i/teamlogos/nfl/500/bal.png","align":"center","height":24,"width":24},"children":[]}]}]},{"name":"Fragment","attribs":[],"children":[{"name":"div","attribs":{"style":{"display":"flex","justifyContent":"center"}},"children":[{"name":"img","attribs":{"src":"https://a.espncdn.com/i/teamlogos/nfl/500/buf.png","align":"center","height":24,"width":24},"children":[]}]}]},{"name":"Fragment","attribs":[],"children":[{"name":"div","attribs":{"style":{"display":"flex","justifyContent":"center"}},"children":[{"name":"img","attribs":{"src":"https://a.espncdn.com/i/teamlogos/nfl/500-dark/car.png","align":"center","height":24,"width":24},"children":[]}]}]},{"name":"Fragment","attribs":[],"children":[{"name":"div","attribs":{"style":{"display":"flex","justifyContent":"center"}},"children":[{"name":"img","attribs":{"src":"https://a.espncdn.com/i/teamlogos/nfl/500/chi.png","align":"center","height":24,"width":24},"children":[]}]}]},{"name":"Fragment","attribs":[],"children":[{"name":"div","attribs":{"style":{"display":"flex","justifyContent":"center"}},"children":[{"name":"img","attribs":{"src":"https://a.espncdn.com/i/teamlogos/nfl/500/cin.png","align":"center","height":24,"width":24},"children":[]}]}]},{"name":"Fragment","attribs":[],"children":[{"name":"div","attribs":{"style":{"display":"flex","justifyContent":"center"}},"children":[{"name":"img","attribs":{"src":"https://a.espncdn.com/i/teamlogos/nfl/500/cle.png","align":"center","height":24,"width":24},"children":[]}]}]},{"name":"Fragment","attribs":[],"children":[{"name":"div","attribs":{"style":{"display":"flex","justifyContent":"center"}},"children":[{"name":"img","attribs":{"src":"https://a.espncdn.com/i/teamlogos/nfl/500/dal.png","align":"center","height":24,"width":24},"children":[]}]}]},{"name":"Fragment","attribs":[],"children":[{"name":"div","attribs":{"style":{"display":"flex","justifyContent":"center"}},"children":[{"name":"img","attribs":{"src":"https://a.espncdn.com/i/teamlogos/nfl/500/den.png","align":"center","height":24,"width":24},"children":[]}]}]},{"name":"Fragment","attribs":[],"children":[{"name":"div","attribs":{"style":{"display":"flex","justifyContent":"center"}},"children":[{"name":"img","attribs":{"src":"https://a.espncdn.com/i/teamlogos/nfl/500/det.png","align":"center","height":24,"width":24},"children":[]}]}]},{"name":"Fragment","attribs":[],"children":[{"name":"div","attribs":{"style":{"display":"flex","justifyContent":"center"}},"children":[{"name":"img","attribs":{"src":"https://a.espncdn.com/i/teamlogos/nfl/500/gb.png","align":"center","height":24,"width":24},"children":[]}]}]},{"name":"Fragment","attribs":[],"children":[{"name":"div","attribs":{"style":{"display":"flex","justifyContent":"center"}},"children":[{"name":"img","attribs":{"src":"https://a.espncdn.com/i/teamlogos/nfl/500/hou.png","align":"center","height":24,"width":24},"children":[]}]}]},{"name":"Fragment","attribs":[],"children":[{"name":"div","attribs":{"style":{"display":"flex","justifyContent":"center"}},"children":[{"name":"img","attribs":{"src":"https://a.espncdn.com/i/teamlogos/nfl/500/ind.png","align":"center","height":24,"width":24},"children":[]}]}]},{"name":"Fragment","attribs":[],"children":[{"name":"div","attribs":{"style":{"display":"flex","justifyContent":"center"}},"children":[{"name":"img","attribs":{"src":"https://a.espncdn.com/i/teamlogos/nfl/500/jax.png","align":"center","height":24,"width":24},"children":[]}]}]},{"name":"Fragment","attribs":[],"children":[{"name":"div","attribs":{"style":{"display":"flex","justifyContent":"center"}},"children":[{"name":"img","attribs":{"src":"https://a.espncdn.com/i/teamlogos/nfl/500/kc.png","align":"center","height":24,"width":24},"children":[]}]}]},{"name":"Fragment","attribs":[],"children":[{"name":"div","attribs":{"style":{"display":"flex","justifyContent":"center"}},"children":[{"name":"img","attribs":{"src":"https://a.espncdn.com/i/teamlogos/nfl/500/lar.png","align":"center","height":24,"width":24},"children":[]}]}]},{"name":"Fragment","attribs":[],"children":[{"name":"div","attribs":{"style":{"display":"flex","justifyContent":"center"}},"children":[{"name":"img","attribs":{"src":"https://a.espncdn.com/i/teamlogos/nfl/500/lac.png","align":"center","height":24,"width":24},"children":[]}]}]},{"name":"Fragment","attribs":[],"children":[{"name":"div","attribs":{"style":{"display":"flex","justifyContent":"center"}},"children":[{"name":"img","attribs":{"src":"https://a.espncdn.com/i/teamlogos/nfl/500/lv.png","align":"center","height":24,"width":24},"children":[]}]}]},{"name":"Fragment","attribs":[],"children":[{"name":"div","attribs":{"style":{"display":"flex","justifyContent":"center"}},"children":[{"name":"img","attribs":{"src":"https://a.espncdn.com/i/teamlogos/nfl/500/mia.png","align":"center","height":24,"width":24},"children":[]}]}]},{"name":"Fragment","attribs":[],"children":[{"name":"div","attribs":{"style":{"display":"flex","justifyContent":"center"}},"children":[{"name":"img","attribs":{"src":"https://a.espncdn.com/i/teamlogos/nfl/500/min.png","align":"center","height":24,"width":24},"children":[]}]}]},{"name":"Fragment","attribs":[],"children":[{"name":"div","attribs":{"style":{"display":"flex","justifyContent":"center"}},"children":[{"name":"img","attribs":{"src":"https://a.espncdn.com/i/teamlogos/nfl/500/ne.png","align":"center","height":24,"width":24},"children":[]}]}]},{"name":"Fragment","attribs":[],"children":[{"name":"div","attribs":{"style":{"display":"flex","justifyContent":"center"}},"children":[{"name":"img","attribs":{"src":"https://a.espncdn.com/i/teamlogos/nfl/500/no.png","align":"center","height":24,"width":24},"children":[]}]}]},{"name":"Fragment","attribs":[],"children":[{"name":"div","attribs":{"style":{"display":"flex","justifyContent":"center"}},"children":[{"name":"img","attribs":{"src":"https://a.espncdn.com/i/teamlogos/nfl/500/nyg.png","align":"center","height":24,"width":24},"children":[]}]}]},{"name":"Fragment","attribs":[],"children":[{"name":"div","attribs":{"style":{"display":"flex","justifyContent":"center"}},"children":[{"name":"img","attribs":{"src":"https://a.espncdn.com/i/teamlogos/nfl/500/nyj.png","align":"center","height":24,"width":24},"children":[]}]}]},{"name":"Fragment","attribs":[],"children":[{"name":"div","attribs":{"style":{"display":"flex","justifyContent":"center"}},"children":[{"name":"img","attribs":{"src":"https://a.espncdn.com/i/teamlogos/nfl/500/phi.png","align":"center","height":24,"width":24},"children":[]}]}]},{"name":"Fragment","attribs":[],"children":[{"name":"div","attribs":{"style":{"display":"flex","justifyContent":"center"}},"children":[{"name":"img","attribs":{"src":"https://a.espncdn.com/i/teamlogos/nfl/500/pit.png","align":"center","height":24,"width":24},"children":[]}]}]},{"name":"Fragment","attribs":[],"children":[{"name":"div","attribs":{"style":{"display":"flex","justifyContent":"center"}},"children":[{"name":"img","attribs":{"src":"https://a.espncdn.com/i/teamlogos/nfl/500/sea.png","align":"center","height":24,"width":24},"children":[]}]}]},{"name":"Fragment","attribs":[],"children":[{"name":"div","attribs":{"style":{"display":"flex","justifyContent":"center"}},"children":[{"name":"img","attribs":{"src":"https://a.espncdn.com/i/teamlogos/nfl/500/sf.png","align":"center","height":24,"width":24},"children":[]}]}]},{"name":"Fragment","attribs":[],"children":[{"name":"div","attribs":{"style":{"display":"flex","justifyContent":"center"}},"children":[{"name":"img","attribs":{"src":"https://a.espncdn.com/i/teamlogos/nfl/500/tb.png","align":"center","height":24,"width":24},"children":[]}]}]},{"name":"Fragment","attribs":[],"children":[{"name":"div","attribs":{"style":{"display":"flex","justifyContent":"center"}},"children":[{"name":"img","attribs":{"src":"https://a.espncdn.com/i/teamlogos/nfl/500/ten.png","align":"center","height":24,"width":24},"children":[]}]}]},{"name":"Fragment","attribs":[],"children":[{"name":"div","attribs":{"style":{"display":"flex","justifyContent":"center"}},"children":[{"name":"img","attribs":{"src":"https://a.espncdn.com/i/teamlogos/nfl/500/wsh.png","align":"center","height":24,"width":24},"children":[]}]}]}],"width":40,"style":{"position":"sticky","left":0,"background":"#fff","zIndex":1}},{"accessor":"team","name":"Team","type":"character","format":{"cell":{"digits":1},"aggregated":{"digits":1}},"align":"center","width":60,"style":{"position":"sticky","left":40,"background":"#fff","zIndex":1}},{"accessor":"time_avg_lead","name":"Time Average Lead","type":"numeric","format":{"cell":{"digits":1},"aggregated":{"digits":1}},"align":"center"},{"accessor":"time_avg_wins","name":"Expected Wins","type":"numeric","format":{"cell":{"digits":1},"aggregated":{"digits":1}},"align":"center"},{"accessor":"off_yards_per_snap","name":"Yards/Snap","type":"numeric","format":{"cell":{"digits":1},"aggregated":{"digits":1}},"align":"center"},{"accessor":"off_adj_yards_per_snap","name":"Adj Yards/Snap","type":"numeric","format":{"cell":{"digits":1},"aggregated":{"digits":1}},"align":"center"},{"accessor":"def_yards_per_snap","name":"Yards/Snap","type":"numeric","format":{"cell":{"digits":1},"aggregated":{"digits":1}},"align":"center"},{"accessor":"def_adj_yards_per_snap","name":"Adj Yards/Snap","type":"numeric","format":{"cell":{"digits":1},"aggregated":{"digits":1}},"align":"center"},{"accessor":"yards_per_snap_diff","name":"Yards/Snap Diff","type":"numeric","format":{"cell":{"digits":2},"aggregated":{"digits":2}},"align":"center"},{"accessor":"adj_yards_per_snap_diff","name":"Adj Yards/Snap Diff","type":"numeric","format":{"cell":{"digits":2},"aggregated":{"digits":2}},"align":"center"}],"columnGroups":[{"name":"Time Average Stats","columns":["time_avg_lead","time_avg_wins"]},{"name":"Offense","columns":["off_yards_per_snap","off_adj_yards_per_snap"]},{"name":"Defense","columns":["def_yards_per_snap","def_adj_yards_per_snap"]},{"name":"Differential","columns":["yards_per_snap_diff","adj_yards_per_snap_diff"]}],"defaultSortDesc":true,"defaultSorted":[{"id":"time_avg_lead","desc":true}],"pagination":false,"defaultPageSize":10,"paginationType":"numbers","showPageInfo":true,"minRows":1,"highlight":true,"bordered":true,"height":"675px","theme":{"color":"#878e94","backgroundColor":"#ffffff","borderWidth":"0px","stripedColor":"#f9f9fb","highlightColor":"#f1f3f4","cellPadding":4,"tableStyle":{"fontSize":16},"headerStyle":{"borderWidth":"1px","padding":"7px","borderTop":"1px solid #595d63","backgroundColor":"#595d63","textTransform":"uppercase","borderColor":"#595d63","color":"#ffffff","transitionDuration":"0.1s","&:hover[aria-sort]":{"backgroundColor":"#4d5056","color":"#ffffff"},"&[aria-sort='ascending']":{"backgroundColor":"#393c40","color":"#ffffff","boxShadow":"inset 0 3px 0 0 #ffffff"},"&[aria-sort='descending']":{"backgroundColor":"#393c40","color":"#ffffff","boxShadow":"inset 0 -3px 0 0 #ffffff"},"fontSize":12,"fontWeight":"bold"},"groupHeaderStyle":{"&:not(:empty)":{"backgroundColor":"#e4e8ed","textTransform":"uppercase","fontWeight":"bold","color":"#878e94","fontSize":12,"boxShadow":"inset 3px 0 0 0 #ffffff"}},"rowSelectedStyle":{"backgroundColor":"#e4e8ed"},"inputStyle":{"backgroundColor":"#ffffff","color":"#878e94"},"searchInputStyle":{"fontSize":"14px","textTransform":"uppercase","backgroundColor":"#ffffff","color":"#878e94","&:focus":{"color":"#878e94"}},"selectStyle":{"backgroundColor":"#073c57","color":"#ffffff","borderColor":"#ffffff","outlineColor":"#ffffff"},"paginationStyle":{"textTransform":"uppercase","fontSize":"15px"},"pageButtonStyle":{"textTransform":"uppercase","fontSize":"15px","backgroundColor":"#ffffff","color":"#164861","&:hover":{"backgroundColor":"#052c3f","color":"#ffffff"}},"pageButtonHoverStyle":{"backgroundColor":"#052c3f","color":"#ffffff"},"pageButtonActiveStyle":{"backgroundColor":"#073c57","color":"#ffffff"},"pageButtonCurrentStyle":{"backgroundColor":"#073c57","color":"#ffffff"}},"dataKey":"baf1ea5eac97748a03f6a5578e7e430c"},"children":[]},"class":"reactR_markup"},"evals":[],"jsHooks":[]}</script>
 </div>
 <h3 id="glossary">Glossary</h3>
 <p>Description of Metrics:</p>
